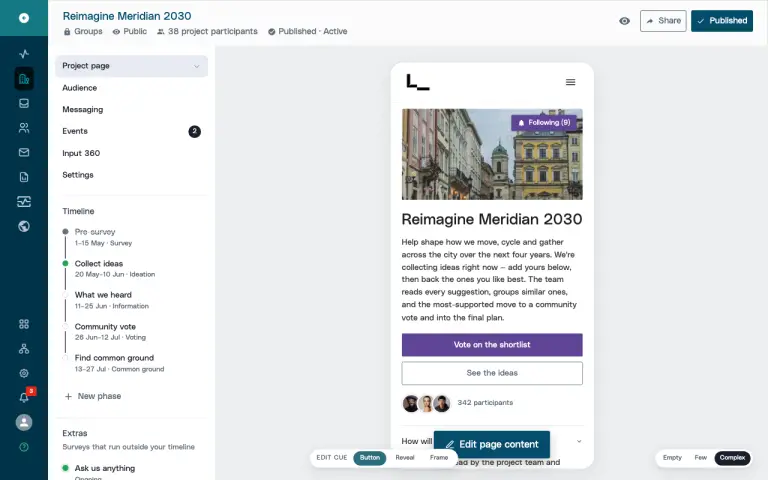
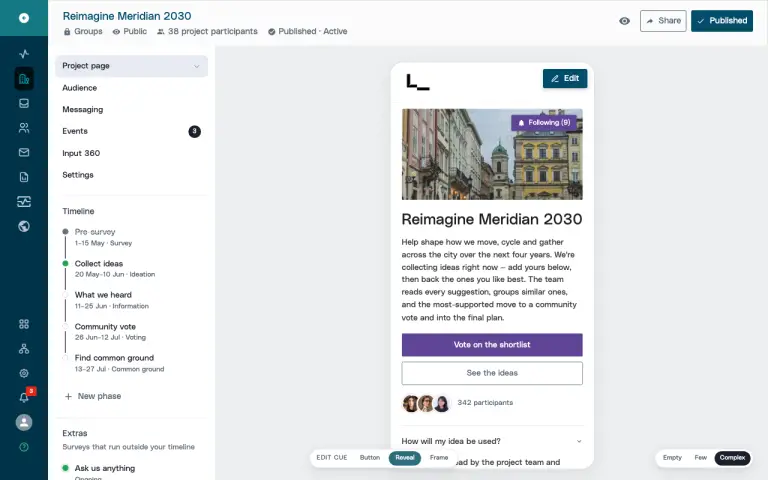
editor-builder-v3: default to Reveal cue; corner = gv-btn admin-dark size-s
Reveal is the resting default. The persistent top-right cue is now a real BO button
(.gv-btn admin-dark, size-s) instead of a bespoke pill; the hover scrim CTA stays
base size for hierarchy.

Changed region(s): [[0.5312, 0.8125, 0.7188, 0.9688], [0.6875, 0.125, 0.7812, 0.1875], [0.4375, 0.9375, 0.5625, 0.9688]]

diff --git a/parallel-participation/prototypes/parallel-editor-builder-v3/index.html b/parallel-participation/prototypes/parallel-editor-builder-v3/index.html
@@ -2277,7 +2277,7 @@
       <!-- ====== VIEW: Project page preview ====== -->
       <div id="view-project" class="preview-stage flex-1 flex items-center justify-center pt-8 pb-6 relative overflow-y-auto">
 
-        <div id="phone-wrap" class="phone-wrap cue-1">
+        <div id="phone-wrap" class="phone-wrap cue-2">
         <div id="phone" class="phone frame-phone" role="button" tabindex="0"
              aria-label="Edit the project page in the content builder"
              onclick="openBuilder()" onkeydown="if(event.key==='Enter'||event.key===' '){event.preventDefault();openBuilder();}">
@@ -4362,8 +4362,8 @@
      edit-cue CSS block. Hidden on non-project views (toggled in setView). -->
 <div class="cue-chip" id="cue-chip" role="group" aria-label="Edit-cue treatment">
   <span class="label">EDIT CUE</span>
-  <button data-cue="1" class="on" onclick="setEditCue(1, this)" title="Persistent CTA button on the preview">Button</button>
-  <button data-cue="2" onclick="setEditCue(2, this)" title="Clean preview; hover/focus reveals a full-surface CTA">Reveal</button>
+  <button data-cue="1" onclick="setEditCue(1, this)" title="Persistent CTA button on the preview">Button</button>
+  <button data-cue="2" class="on" onclick="setEditCue(2, this)" title="Clean preview; hover/focus reveals a full-surface CTA">Reveal</button>
   <button data-cue="3" onclick="setEditCue(3, this)" title="Editor chrome: toolbar + dashed outline at rest">Frame</button>
 </div>
 
@@ -5475,27 +5475,6 @@
       cta:'Take the survey',
       minutes:'2 min', questions:8, responses:248, closesIn:'Closes in 5 days', progress:64
     } };
-    // The 10 card-view designs, shown as a picker in the panel when format = card.
-    var CARD_VARIANTS = [
-      { id:'standard',   name:'Standard',         d:'Eyebrow, title, dates, description, full CTA.' },
-      { id:'compact',    name:'Compact',          d:'Icon + title + one-line meta. No description.' },
-      { id:'quick',      name:'Quick poll',       d:'Time + status chips up top; speed-forward.' },
-      { id:'social',     name:'Social proof',     d:'Responder avatars and a live response count.' },
-      { id:'accent',     name:'Accent stripe',    d:'Tenant side-stripe with a tinted survey icon.' },
-      { id:'banner',     name:'Banner header',    d:'Tinted SURVEY header band over the body.' },
-      { id:'deadline',   name:'Deadline',         d:'Closing pill + time-elapsed progress bar.' },
-      { id:'horizontal', name:'Icon beside text', d:'Large icon left, content right, CTA below.' },
-      { id:'detailed',   name:'Detailed stats',   d:'Time / questions / responses stat tiles.' },
-      { id:'minimal',    name:'Minimal',          d:'Borderless and quiet — title, time, CTA only.' },
-      { id:'easy',       name:'Easy read · accessible', d:'Plain words, big text, one large high-contrast button. For vulnerable audiences.' }
-    ];
-    // One picker card. Easy read is rendered as the principal option; the rest fold away.
-    function cbVarcardHTML(v) {
-      return '<button type="button" class="cb-varcard" data-variant="' + v.id + '">' +
-        '<span class="cb-varcard__radio"></span>' +
-        '<span><span class="cb-varcard__t">' + v.name + '</span>' +
-        '<span class="cb-varcard__d">' + v.d + '</span></span></button>';
-    }
     function cbSurveyState(block) { if (!SURVEY_STATE[block.id]) SURVEY_STATE[block.id] = { survey:'mobility', format:'card', style:'primary', label:'', cardVariant:'easy' }; return SURVEY_STATE[block.id]; }
     function cbSurveyHTML(survey, format, style, label, variant) {
       if (!survey) return '<div class="cb-survey-empty"><div class="cb-survey-empty__t">📣 Survey</div><div class="cb-survey-empty__s">Select a survey to link in the panel on the right.</div></div>';
